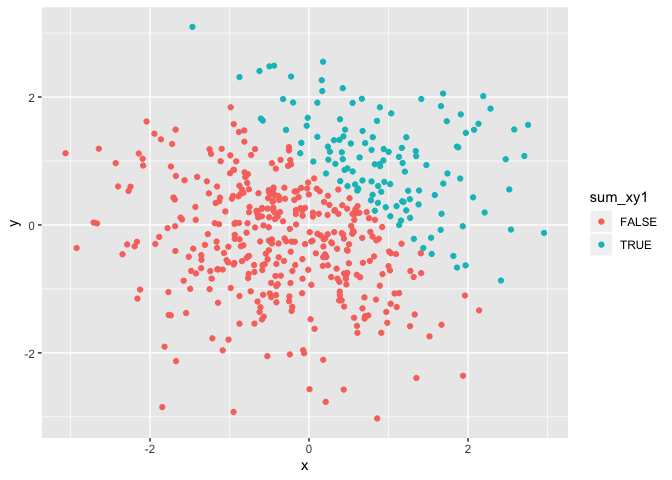
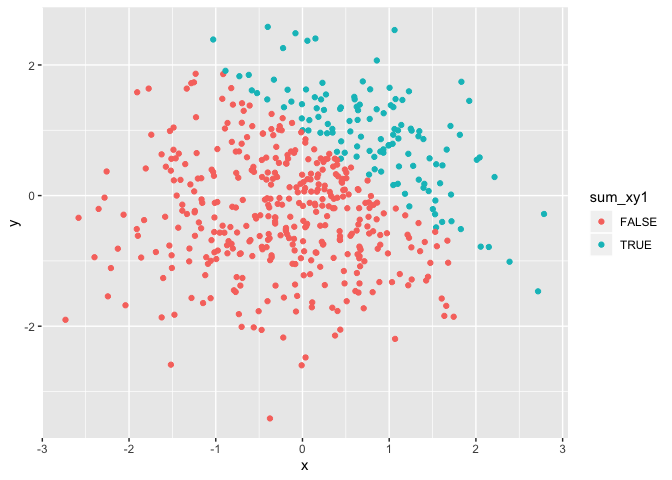
saved scatter plot

diff --git a/p8105_hw1_jc4166.md b/p8105_hw1_jc4166.md
@@ -26,8 +26,8 @@ problem1_df = tibble(
 
 Take the mean of each variable in the problem1\_df.
 
-  - The mean of the numeric variable is -0.0094097.
-  - The mean of the logical variable is 0.5.
+  - The mean of the numeric variable is 0.181976.
+  - The mean of the logical variable is 0.625.
   - The mean of the character variable is NA.
   - The mean of the factor variable is NA.
 
@@ -85,10 +85,10 @@ problem2_df = tibble(
 
   - The number of rows is 500.
   - The number of columns is 5.
-  - The mean of x is -0.0449218.
-  - The median of x is -0.0809804.
-  - The standard deviation of x is 1.0741249.
-  - The proportion of cases for which x + y \> 1 is 0.254.
+  - The mean of x is 0.0137073.
+  - The median of x is 0.0395371.
+  - The standard deviation of x is 0.962829.
+  - The proportion of cases for which x + y \> 1 is 0.244.
 
 Scatter plot adding color using logical variable:
 
@@ -97,6 +97,10 @@ ggplot(problem2_df, aes(x = x, y = y, color = sum_xy1)) + geom_point()
 ```
 
 ![](p8105_hw1_jc4166_files/figure-gfm/yx_scatter1-1.png)<!-- -->
+
+``` r
+ggsave("scatter_plot.pdf", height = 4, width = 6)
+```
 
 Scatter plot adding color using numeric
 variable:
@@ -115,3 +119,8 @@ ggplot(problem2_df, aes(x = x, y = y, color = sum_xy1_factor)) + geom_point()
 ```
 
 ![](p8105_hw1_jc4166_files/figure-gfm/yx_scatter3-1.png)<!-- -->
+
+The color scales of the above scatter plots indicate the type of
+variables included. The numeric variable is represented by a gradient
+color scale for continuous data, whereas the factor and logical
+variables are two individual colors representing categorical data.
